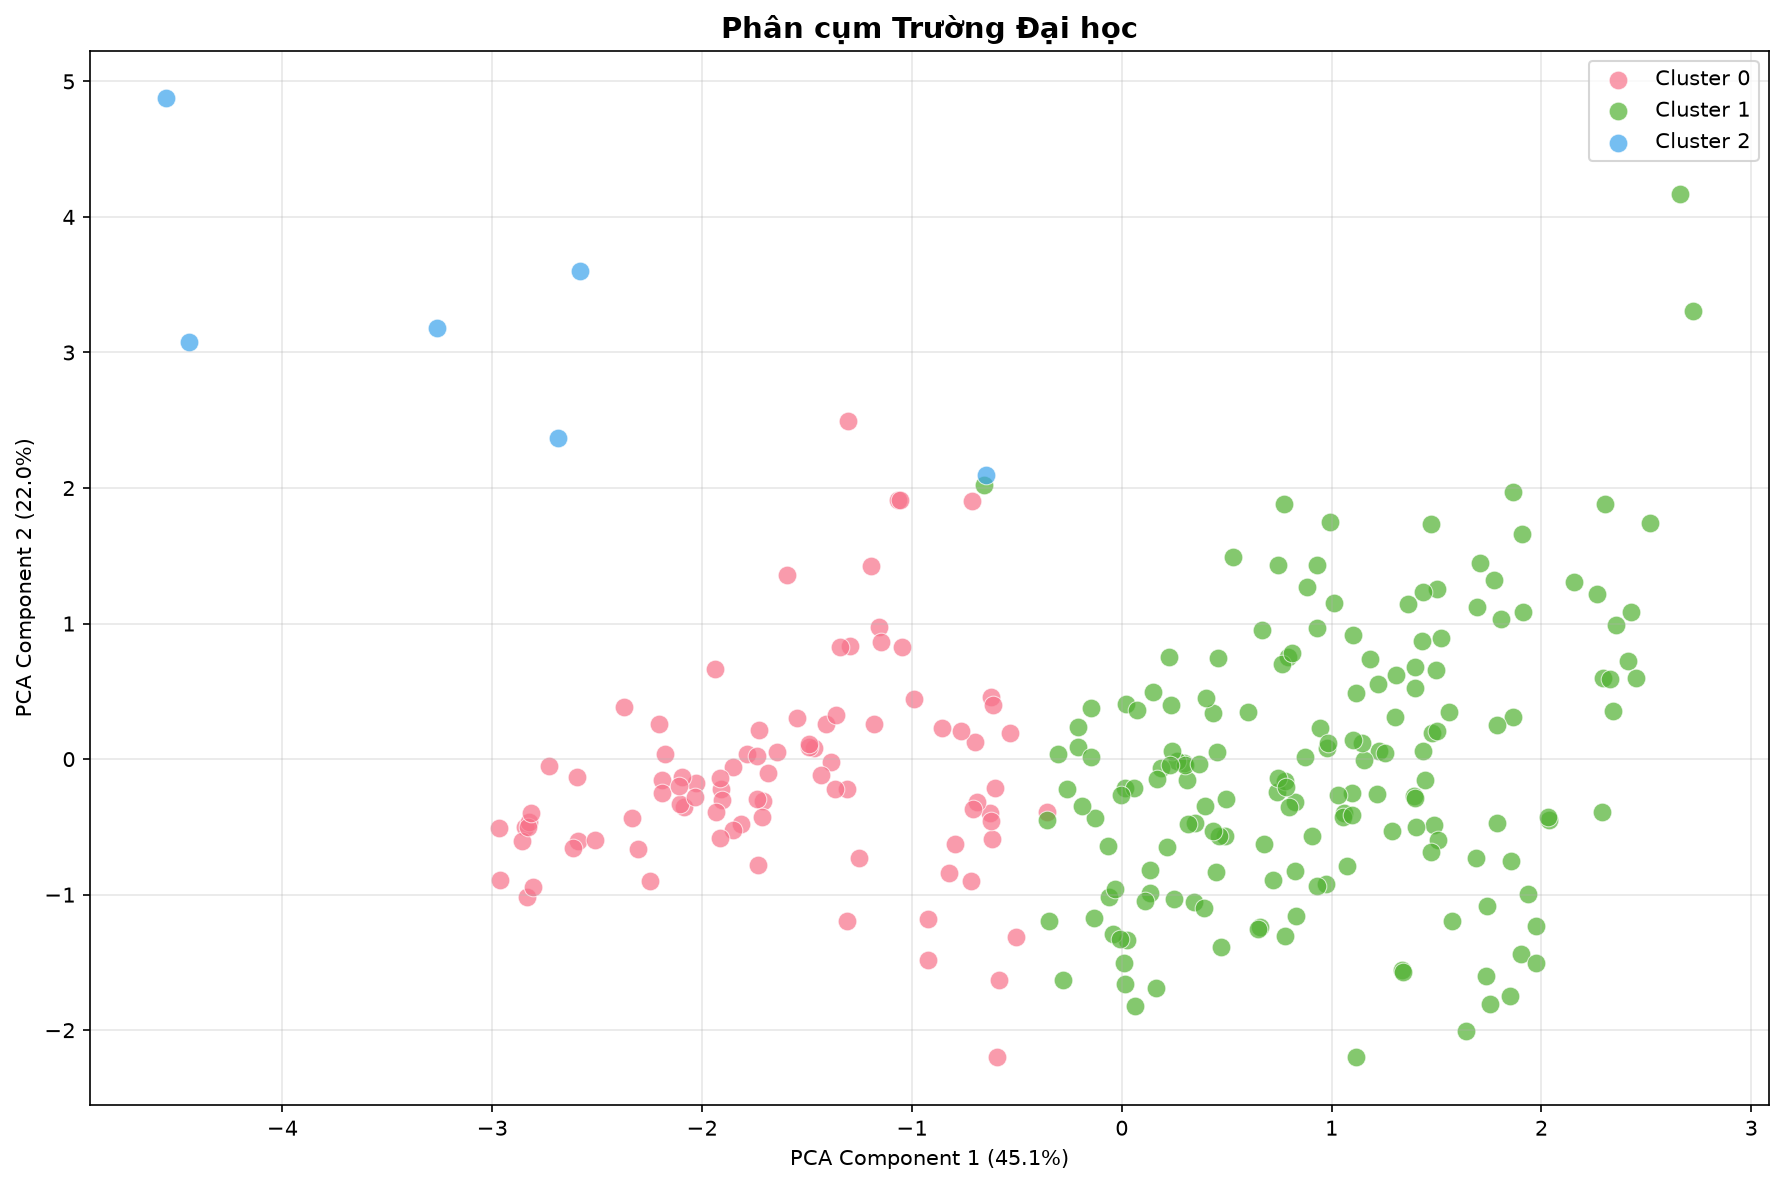
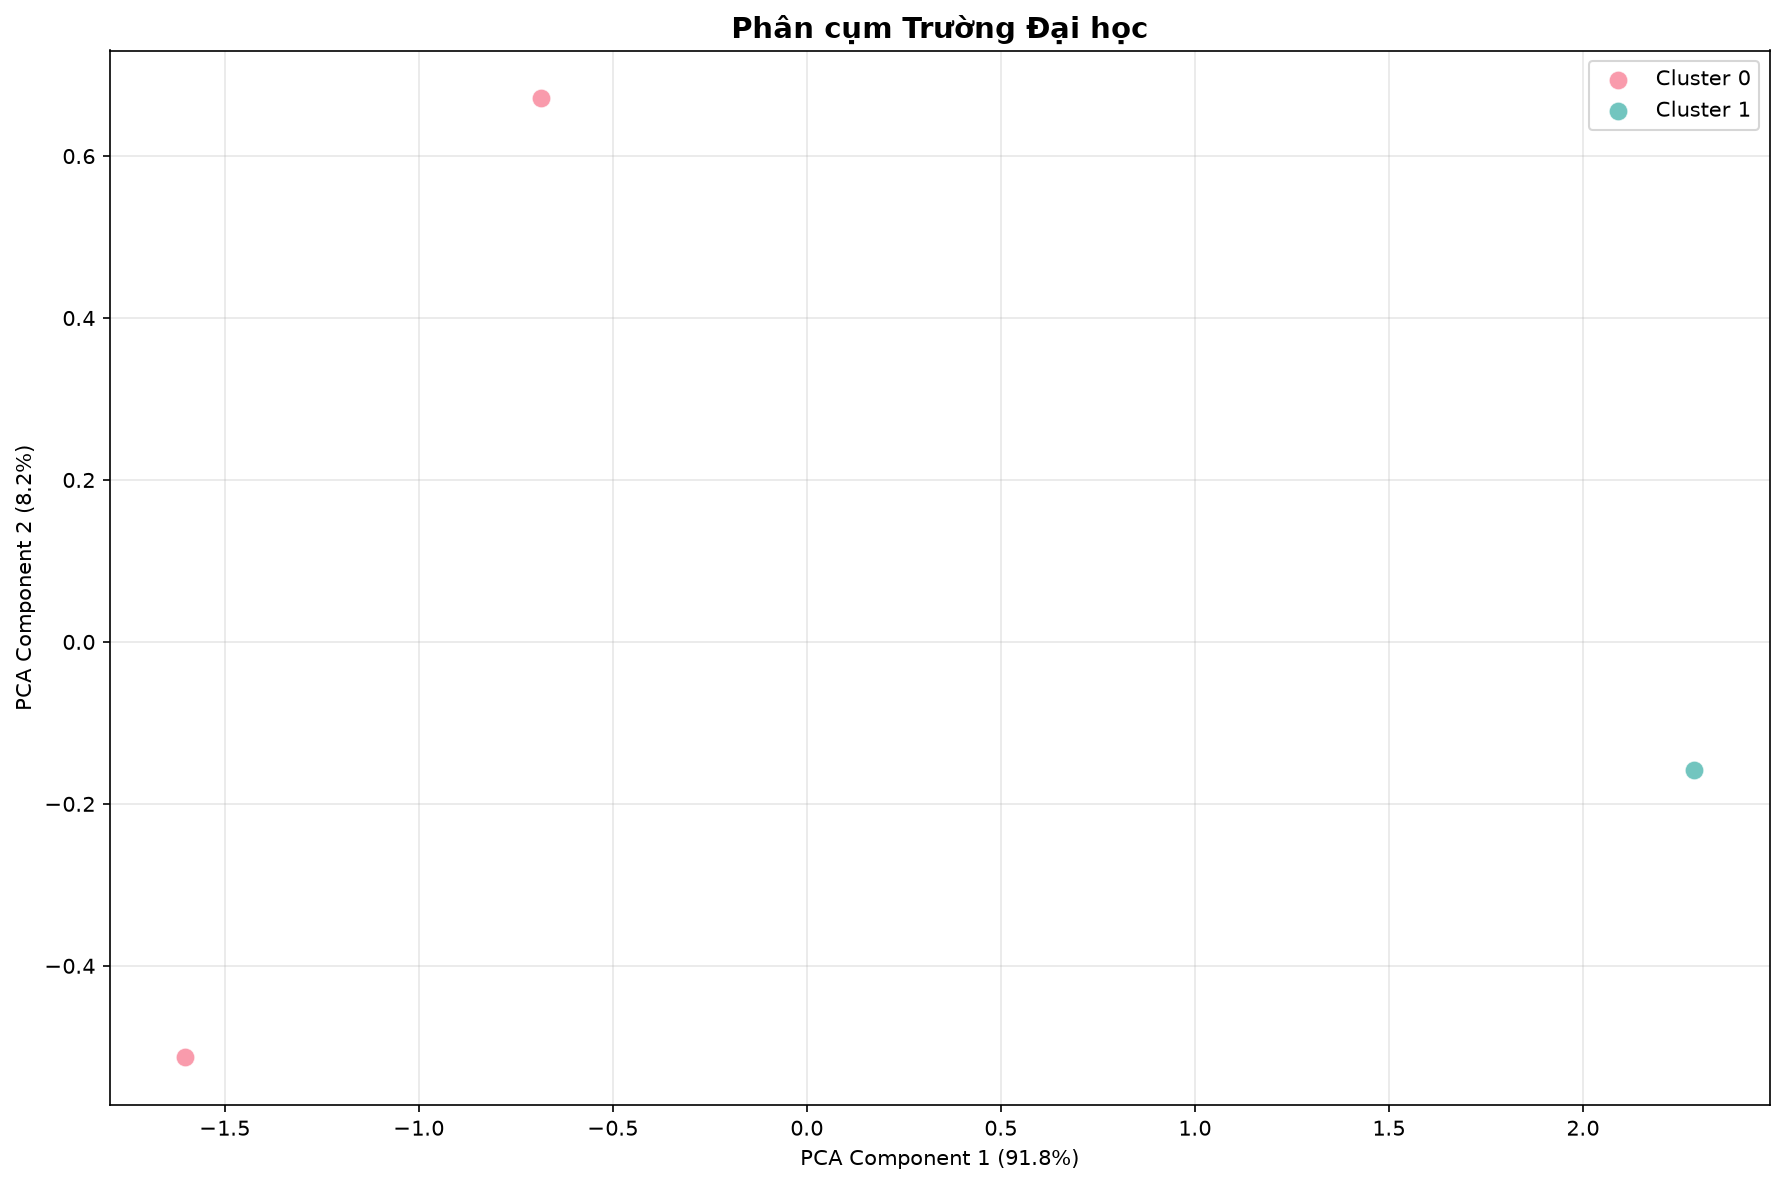
commit data thpt 2025

diff --git a/docs/03_Data_Collection.md b/docs/03_Data_Collection.md
@@ -190,17 +190,17 @@ data/raw/
 └── schools_info.csv        # Thông tin trường
 ```
 
-**Ước tính quy mô:**
+**Quy mô dữ liệu cào thực tế:**
 
-| Năm | Số trường dự kiến | Số ngành TB | Records ước tính |
-|-----|-----------------|------------|-----------------|
-| 2020 | ~200 | ~50 | ~10,000 |
-| 2021 | ~220 | ~52 | ~11,440 |
-| 2022 | ~240 | ~55 | ~13,200 |
-| 2023 | ~260 | ~58 | ~15,080 |
-| 2024 | ~280 | ~60 | ~16,800 |
-| 2025 | ~300 | ~62 | ~18,600 |
-| **Tổng** | | | **~85,000+ records** |
+| Năm | Số trường thực tế | Số ngành | Records thực tế |
+|-----|-------------------|----------|-----------------|
+| 2020 | 271 | 2,290 | 31,709 |
+| 2021 | 271 | 2,290 | 31,709 |
+| 2022 | 271 | 2,290 | 31,709 |
+| 2023 | 271 | 2,290 | 31,709 |
+| 2024 | 271 | 2,290 | 31,709 |
+| 2025 | 271 | 2,290 | 31,709 |
+| **Tổng** | | | **190,254 records** |
 
 ---
 

diff --git a/docs/06_Exploratory_Data_Analysis.md b/docs/06_Exploratory_Data_Analysis.md
@@ -31,15 +31,15 @@ EDA được thực hiện trên dữ liệu tuyển sinh đại học Việt Na
 
 ### 3.1 Thống kê mô tả
 
-| Chỉ số | Giá trị dự kiến |
+| Chỉ số | Giá trị thực tế |
 |--------|----------------|
-| Tổng records | ~50,000 – 100,000 |
-| Số trường | ~250 – 300 |
-| Số ngành (duy nhất) | ~500 – 800 |
-| Số tổ hợp xét tuyển | ~20 – 30 |
+| Tổng records | 187,674 |
+| Số trường | 271 |
+| Số ngành (duy nhất) | 2,290 |
+| Số tổ hợp xét tuyển | 133 |
 | Số năm | 6 (2020–2025) |
-| Điểm chuẩn trung bình | 20.0 – 24.0 |
-| Điểm chuẩn min/max | ~13.0 / ~30.0 |
+| Điểm chuẩn trung bình | 19.75 |
+| Điểm chuẩn min/max | 13.0 / 30.0 |
 
 ### 3.2 Phân bố điểm chuẩn
 

diff --git a/docs/04_Data_Preprocessing.md b/docs/04_Data_Preprocessing.md
@@ -203,12 +203,12 @@ Sau mỗi lần chạy, pipeline in ra thống kê:
 ```
 ══════════════════════════════════════════════
 THỐNG KÊ DATA CLEANING
-  Raw records      : 85,120
-  Duplicates xóa   : 1,340
-  Invalid score    : 23
-  Missing school   : 5
-  Clean records    : 83,752
-  Retention rate   : 98.4%
+  Raw records      : 190,254
+  Duplicates xóa   : 2,580
+  Invalid score    : 0
+  Missing school   : 0
+  Clean records    : 187,674
+  Retention rate   : 98.6%
 ══════════════════════════════════════════════
 ```
 